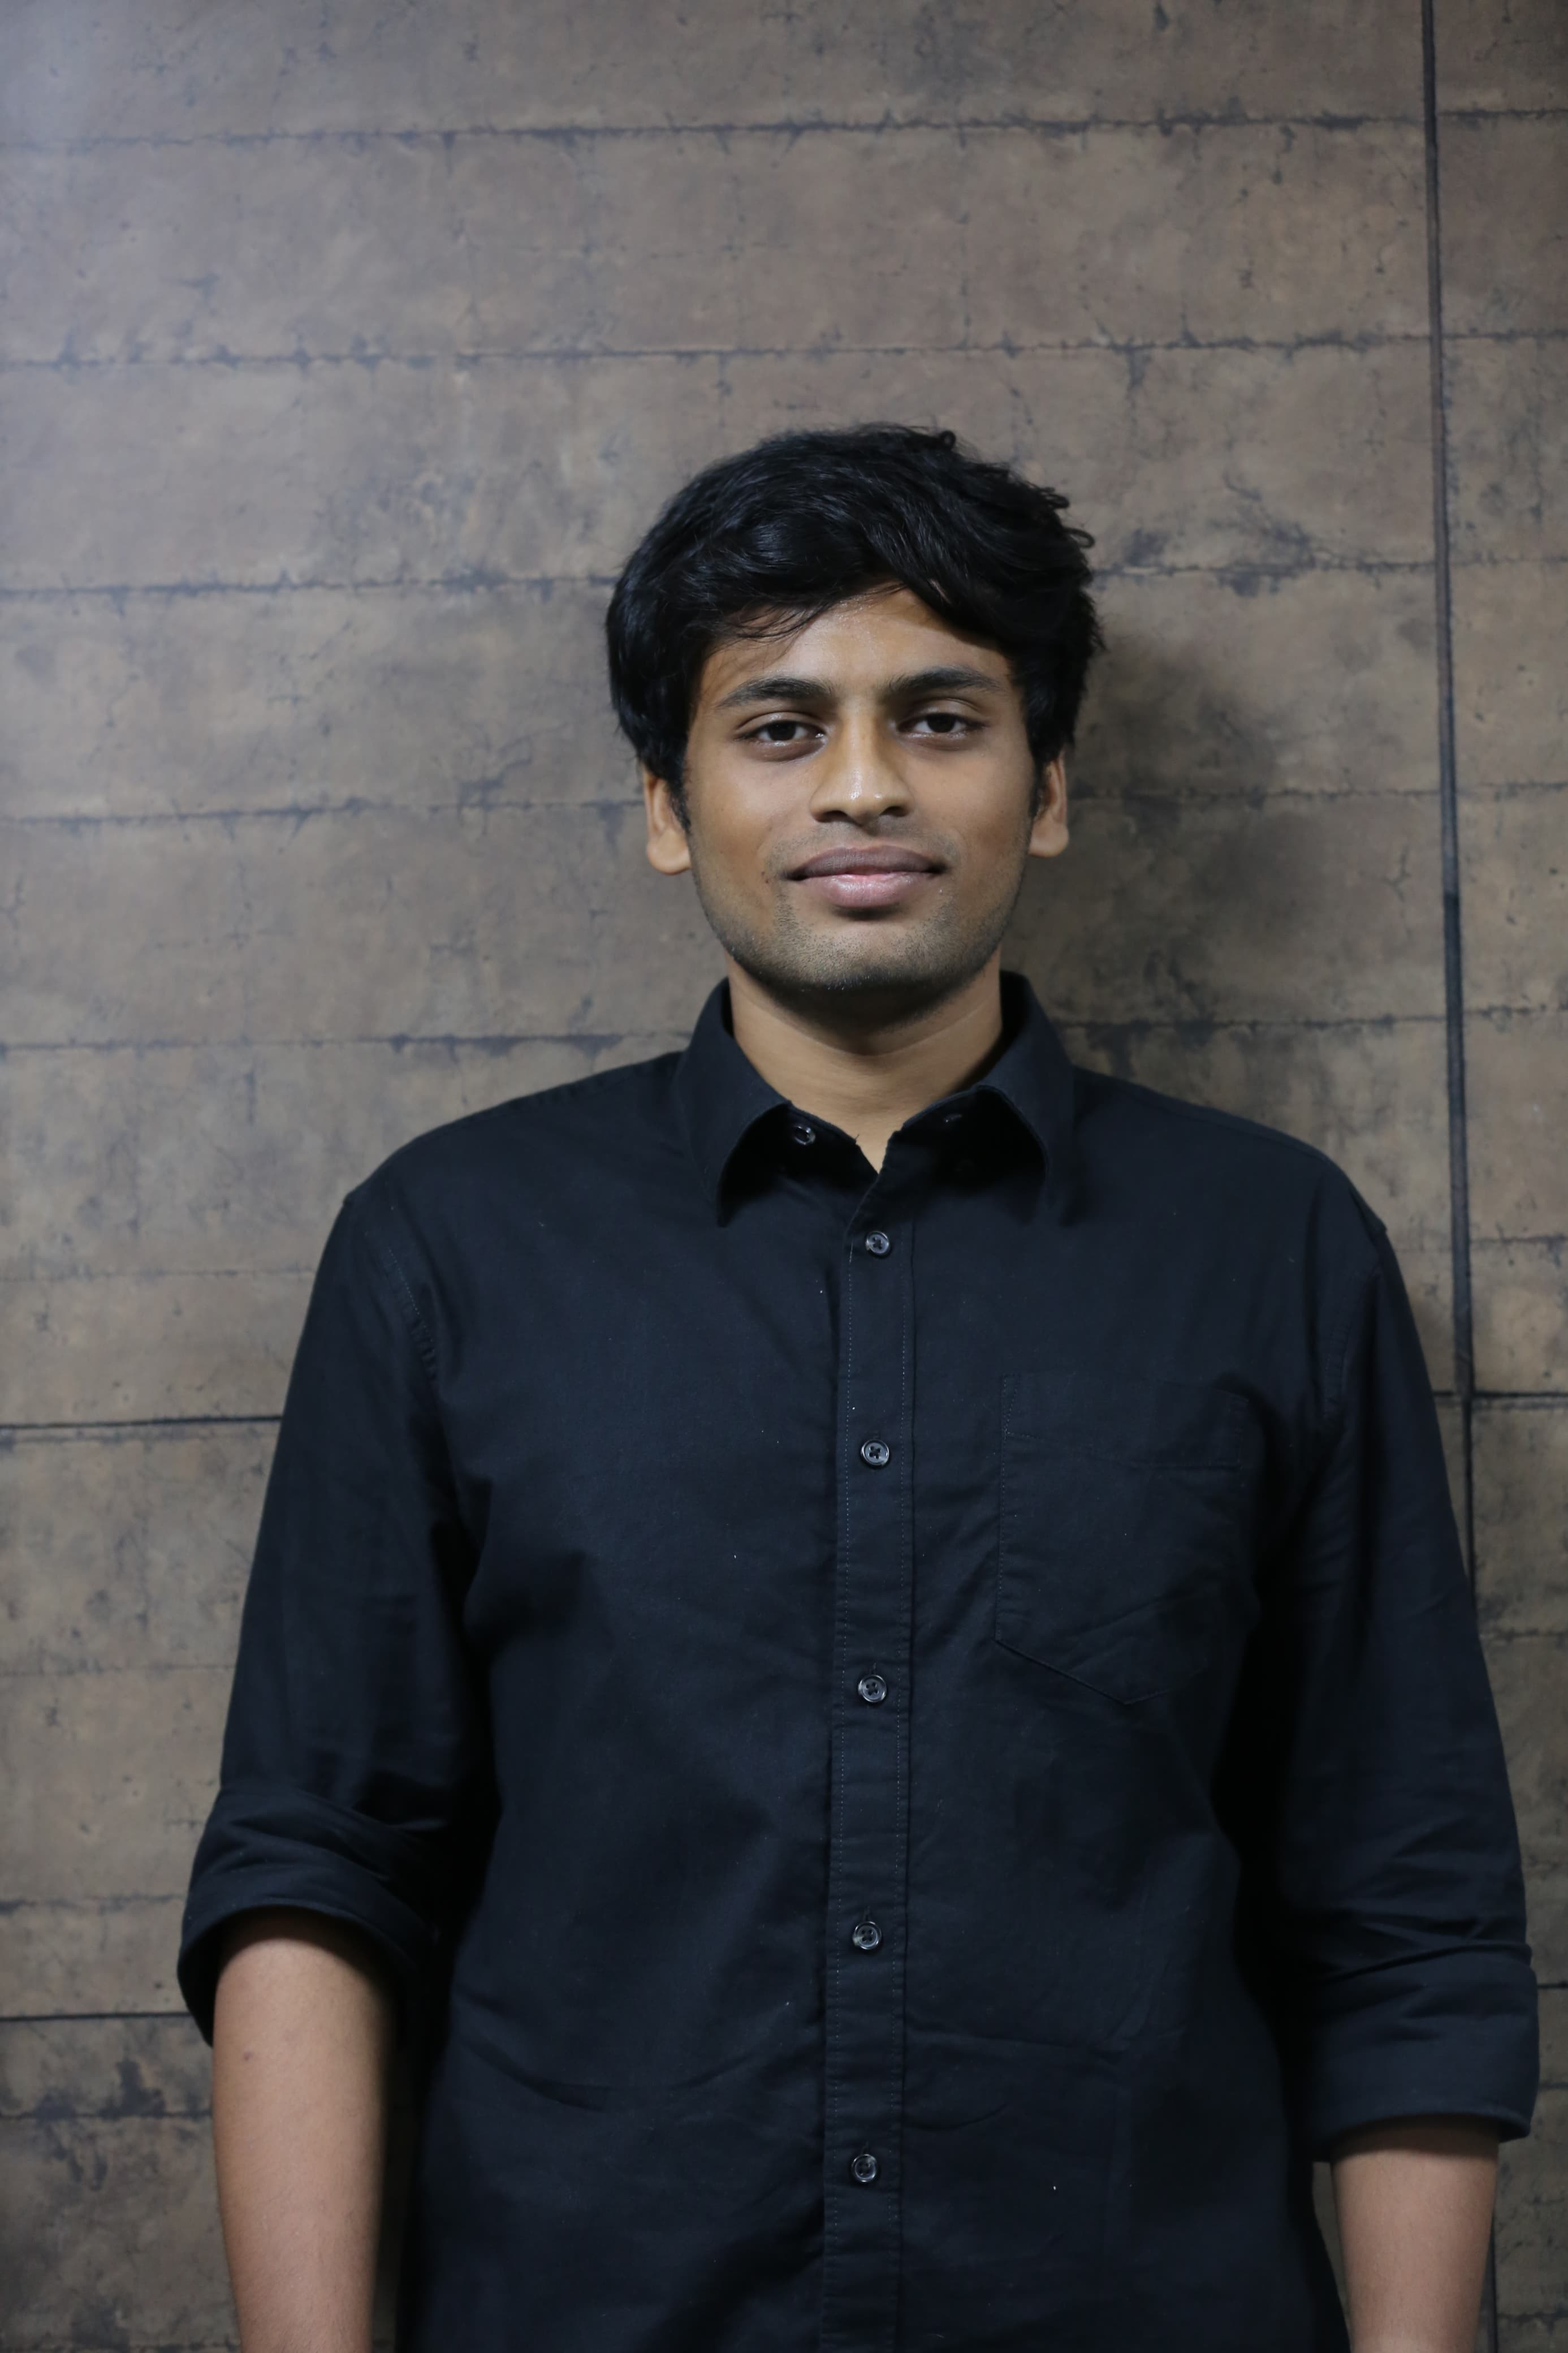
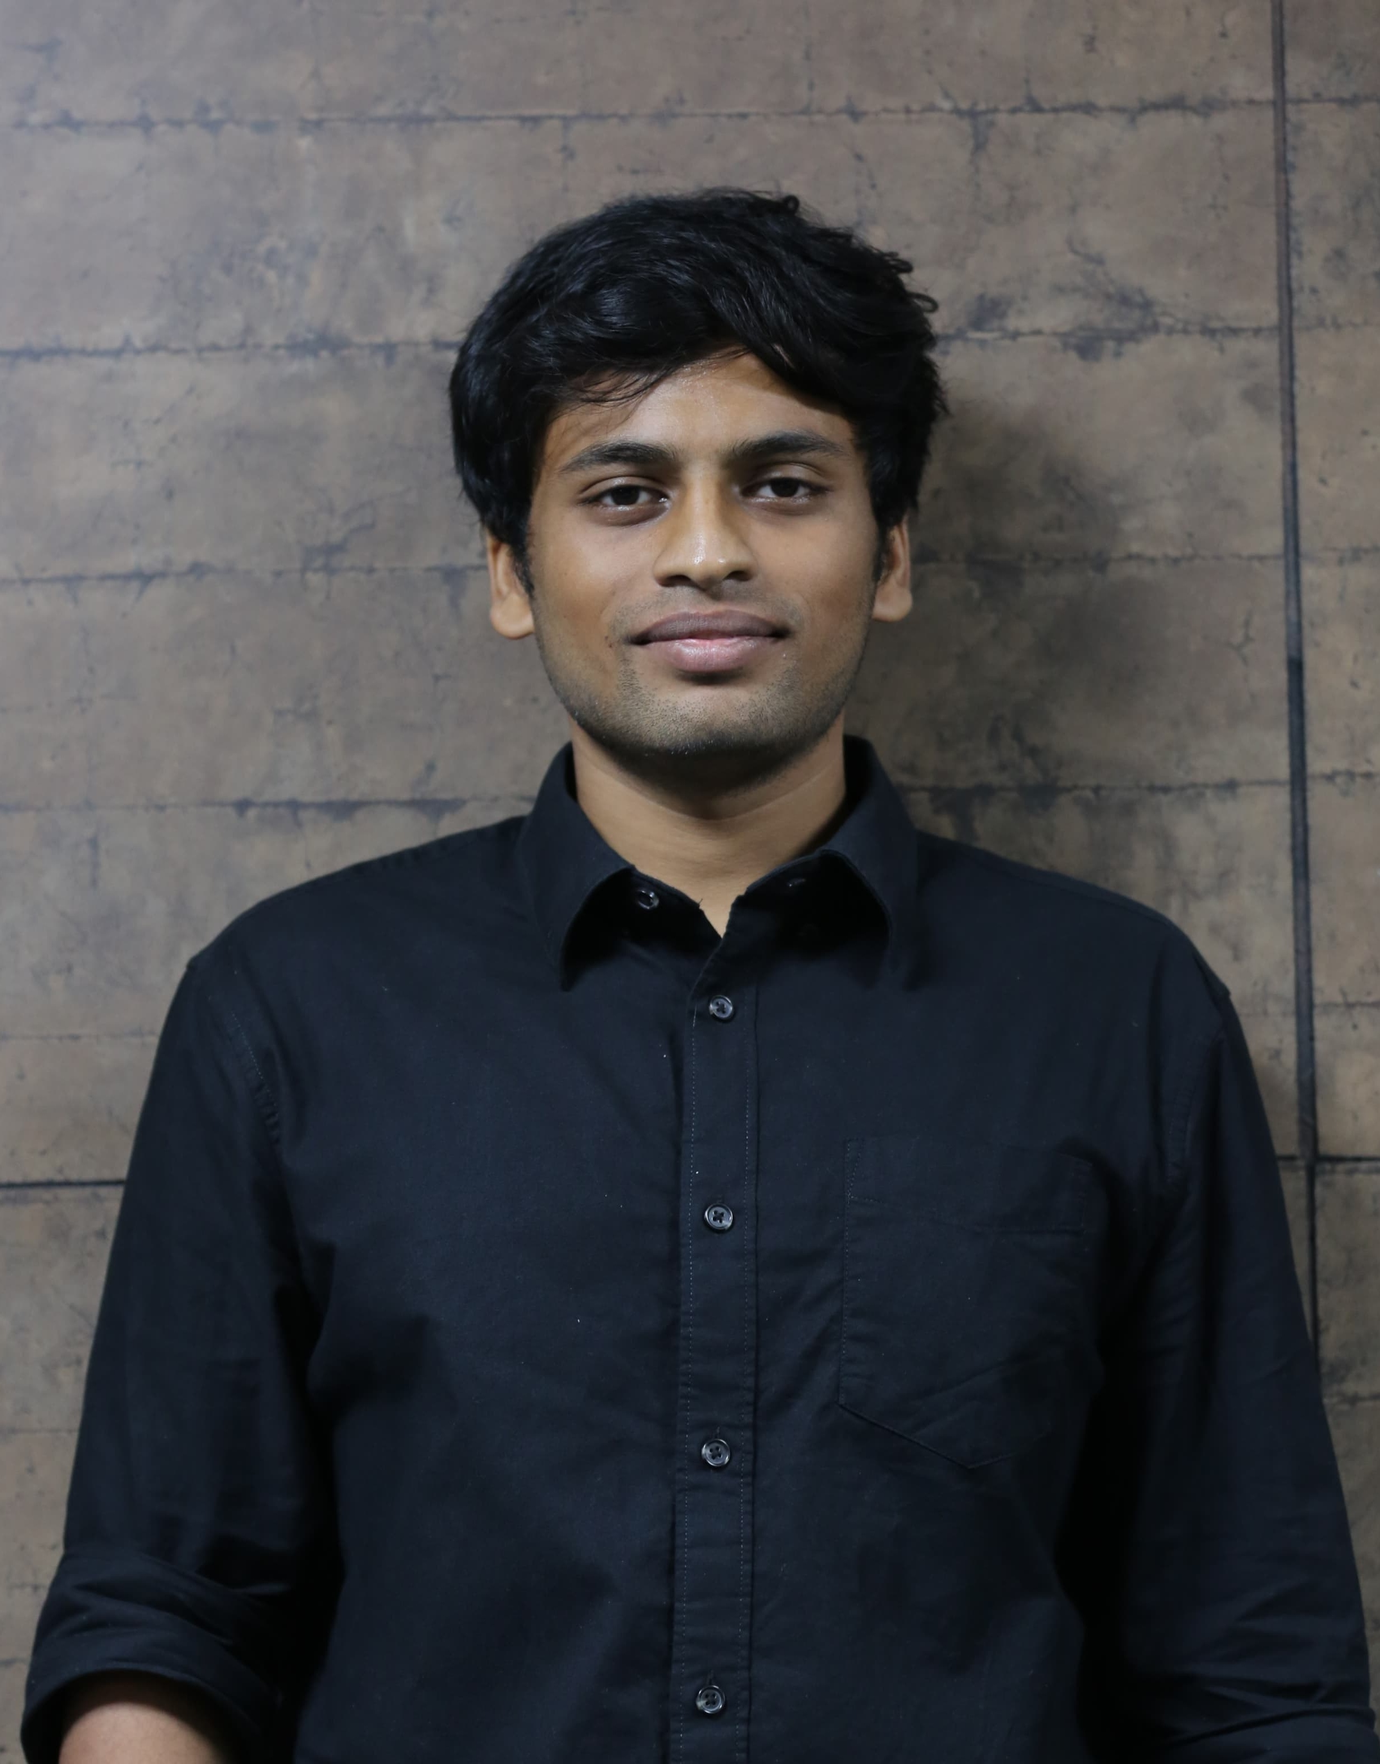
Added Timeline and Updated UI

diff --git a/src/About.jsx b/src/About.jsx
@@ -1,5 +1,6 @@
 import React from 'react';
-import profileImage from './assets/profile_pic.jpg'; // ensure this exists and matches filename
+// import profileImage from './assets/profile_pic-3.jpg'; // ensure this exists and matches filename
+import profileImage from './assets/timeline.png'; // ensure this exists and matches filename
 
 const About = () => {
   return (

diff --git a/src/App.jsx b/src/App.jsx
@@ -18,7 +18,7 @@ function App() {
       <section id="home" className="">
         <Home></Home>
       </section>
-      <section id="about">
+      <section id="about" className="h-140">
         <About></About>
       </section>
       <section id="projects">
